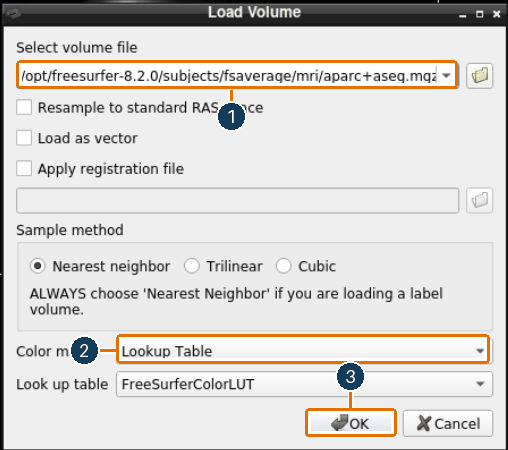
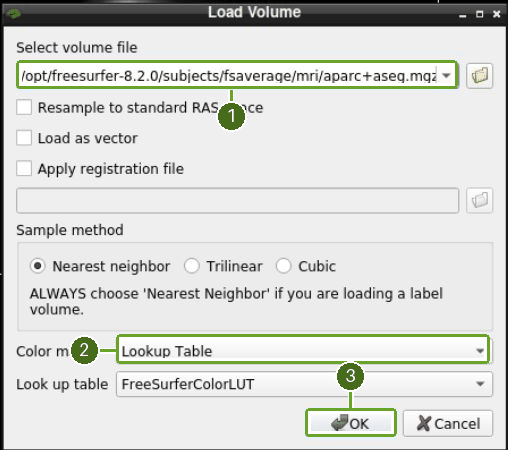
Use green click guides and clearer GUI startup screenshots

diff --git a/scripts/render_screenshot_guides.py b/scripts/render_screenshot_guides.py
@@ -7,9 +7,9 @@ from PIL import Image,ImageDraw,ImageFont
 ROOT=Path(__file__).resolve().parents[1]
 FOLDER=ROOT/'screenshots/neurodesk'
 GUIDES={
- 'neurodesktop-launcher-desktop.png':[(1,(166,194,269,297),(217,329),(217,299)),(2,(284,194,387,297),(335,329),(335,299))],
- 'neurodesktop-launcher-terminal.png':[(1,(520,194,624,297),(573,329),(573,299))],
- 'neurodesktop-launcher-notebook.png':[(1,(166,562,269,665),(139,614),(164,614))],
+ 'neurodesktop-launcher-desktop.png':[(1,(182,194,283,297),(233,316),(233,299)),(2,(300,194,401,297),(351,316),(351,299))],
+ 'neurodesktop-launcher-terminal.png':[(1,(536,194,637,297),(587,316),(587,299))],
+ 'neurodesktop-launcher-notebook.png':[(1,(182,562,283,665),(155,614),(180,614))],
 }
 def render(source, name, markers):
  try:font=ImageFont.truetype('DejaVuSans-Bold.ttf',18)
@@ -17,10 +17,11 @@ def render(source, name, markers):
  image=source.copy();draw=ImageDraw.Draw(image)
  for number,box,label,tip in markers:
    draw.rounded_rectangle(box,radius=4,outline='white',width=6)
-   draw.rounded_rectangle(box,radius=4,outline='#e76f00',width=3)
-   draw.line([label,tip],fill='white',width=6);draw.line([label,tip],fill='#e76f00',width=3)
-   x,y=label;draw.ellipse((x-15,y-15,x+15,y+15),fill='#123c5a',outline='white',width=2)
-   draw.text(label,str(number),font=font,anchor='mm',fill='white')
+   draw.rounded_rectangle(box,radius=4,outline='#6aa329',width=3)
+   draw.line([label,tip],fill='white',width=6);draw.line([label,tip],fill='#6aa329',width=3)
+   x,y=label;draw.ellipse((x-15,y-15,x+15,y+15),fill='#456b1b',outline='white',width=2)
+   left,top,right,bottom=draw.textbbox((0,0),str(number),font=font)
+   draw.text((x-(left+right)/2,y-(top+bottom)/2),str(number),font=font,fill='white')
  image.quantize(colors=256,method=Image.Quantize.MEDIANCUT,dither=Image.Dither.NONE).save(FOLDER/name,optimize=True)
 def main():
  parser=argparse.ArgumentParser(description=__doc__)

diff --git a/screenshots/neurodesk/README.md b/screenshots/neurodesk/README.md
@@ -12,7 +12,7 @@ each points at a different destination.
 
 ## Inventory
 
-All captures below were made on 20 October 2026. Desktop captures use the VNC
+Platform captures were made on 20 October 2026; Freeview startup, MRIQC terminal and MFCSC launch captures were added on 21 October 2026. Click-guide colours and launcher alignment were refreshed on 21 October 2026. Desktop captures use the VNC
 desktop at its native 1280 × 720 proportions. Menus show actual installed entries;
 an entry's presence does not establish that its launcher or a full analysis works.
 See the NeurodeskEDU tutorial audit for execution results and workarounds.
@@ -40,8 +40,9 @@ See the NeurodeskEDU tutorial audit for execution results and workarounds.
 | `launch-romeo-guide.png` | ROMEO 3.2.8 menu entry | ROMEO tutorial |
 | `spm-change-directory-guide.png` | SPM Utils → CD | SPM and PhysIO tutorials |
 | `spm-open-batch-guide.png` | SPM Batch button | PhysIO and batch workflow tutorials |
-
-
+| `freeview-start.png` | Freeview 8.2.0 fully opened, before loading an image | FreeSurfer GUI tutorial |
+| `mriqc-loaded-terminal.png` | MRIQC 24.0.2 loaded terminal and executable version | MRIQC tutorials |
+| `launch-mfcsc-guide.png` | Neurodesk → Functional Imaging → mfcsc → mfcsc 1.1 | MFCSC tutorial |
 | `freeview-menu-guide.png` | Freeview 8.2.0: Load Volume and Load Surface | FreeSurfer GUI tutorial |
 | `freeview-load-volume-guide.png` | Enter the bundled T1 image path | FreeSurfer GUI tutorial |
 | `freeview-anatomy.png` | Bundled fsaverage anatomy in four views | FreeSurfer GUI tutorial |
@@ -66,7 +67,7 @@ python scripts/render_screenshot_guides.py --source-dir /path/to/working-capture
 ```
 
 Omit `--source-dir` to regenerate only the launcher variants from the shared launcher
-master. The renderer adds boxes, leader lines and numbers; it does not synthesize UI.
+master. The renderer centres numbers using their glyph bounds and uses the Neurodesk green palette. It adds boxes, leader lines and numbers; it does not synthesize UI.
 Exports use an indexed PNG palette without resizing. Check every resulting guide
 visually, then optimize it with `oxipng -o 4 --strip safe` and run
 `python scripts/check_assets.py`.
